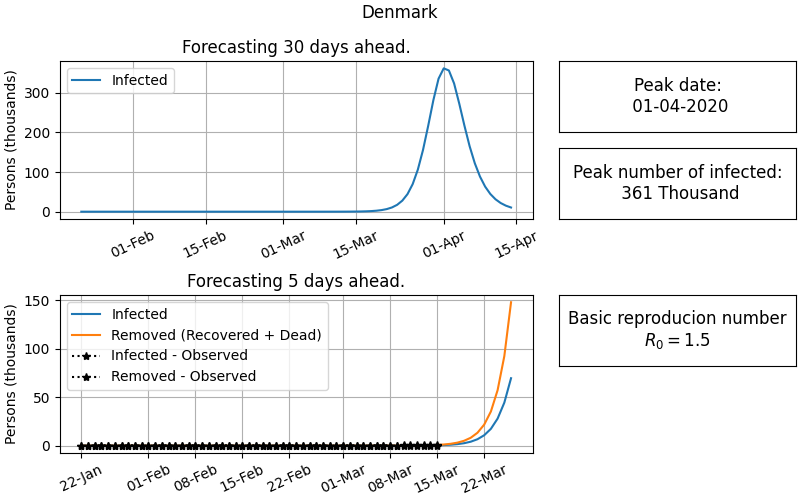
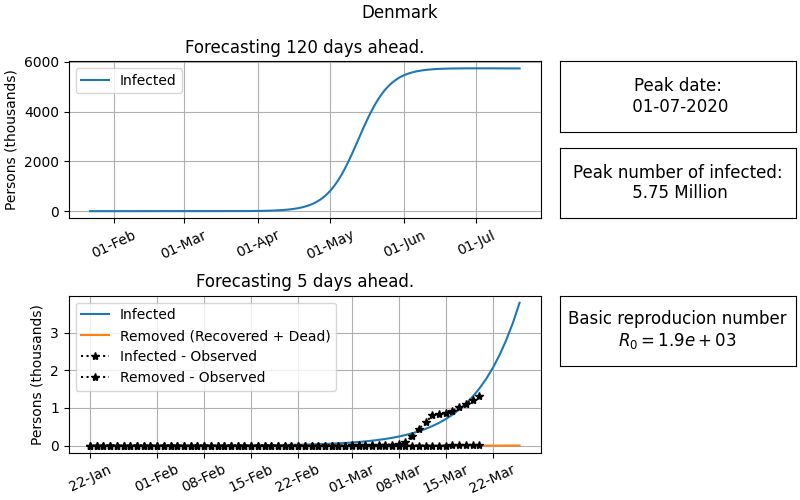
New forecasts.

diff --git a/forecast/plot_forecast.py b/forecast/plot_forecast.py
@@ -8,10 +8,8 @@ from forecast import ForecastInfo, Params
 
 SCALING_FACTOR = 1000
 
-def plot_forecast(df_forecast: DataFrame, forecast_info: ForecastInfo) -> plt.Figure:
-    days_short_term = 5
-    days_long_term = 30
 
+def plot_forecast(df_forecast: DataFrame, forecast_info: ForecastInfo, days_short_term=5, days_long_term=30) -> plt.Figure:
     fig = plt.figure(figsize=(8, 5), constrained_layout=True)
     gs = fig.add_gridspec(4, 3)
     long_term_plot = fig.add_subplot(gs[0:2, 0:2])
@@ -88,7 +86,7 @@ def calc_plot_stats(df_forecast: DataFrame, params: Params) -> dict:
     peak_infected_index = df_forecast.infected_forecast.idxmax()
     return {
         'r0': params.beta / params.gamma,
-        'peak_infected': df_forecast.infected_forecast[peak_infected_index]*SCALING_FACTOR,
+        'peak_infected': df_forecast.infected_forecast[peak_infected_index] * SCALING_FACTOR,
         'peak_date': df_forecast.dates[peak_infected_index]
     }
 
@@ -96,12 +94,12 @@ def calc_plot_stats(df_forecast: DataFrame, params: Params) -> dict:
 def format_counts(count):
     if count < 1e5:
         return f'{count:.0f}'
-    elif count <1e6:
-        return f'{count/1e3:.0f} Thousand'
-    elif count <1e9:
-        return f'{count/1e6:.2f} Million'
+    elif count < 1e6:
+        return f'{count / 1e3:.0f} Thousand'
+    elif count < 1e9:
+        return f'{count / 1e6:.2f} Million'
     else:
-        return f'{count/1e9:.2f} Billion'
+        return f'{count / 1e9:.2f} Billion'
 
 
 def save_plot(fig: plt.Figure, filename: str) -> None:

diff --git a/forecast/forecast_country.py b/forecast/forecast_country.py
@@ -18,7 +18,8 @@ def forecast_countries(df: pd.DataFrame,
                        n_days_predict: int,
                        start_params_collection: dict = None,
                        countries: Iterable = tuple(),
-                       skip_countries: Iterable = tuple()) -> (pd.DataFrame, ForecastInfoCollection):
+                       skip_countries: Iterable = tuple(),
+                       seed=42) -> (pd.DataFrame, ForecastInfoCollection):
 
     skip_countries = set(skip_countries)
     df_forecasts = []
@@ -36,7 +37,7 @@ def forecast_countries(df: pd.DataFrame,
         else:
             start_params = None
 
-        df_forecast, forecast_info = forecast(df_country, country, extract_forecast_info, n_days_predict, start_params)
+        df_forecast, forecast_info = forecast(df_country, country, extract_forecast_info, n_days_predict, start_params, seed)
         df_forecasts.append(df_forecast)
         forecast_info_col.add(forecast_info)
     return pd.concat(df_forecasts, axis=0, ignore_index=True), forecast_info_col
@@ -124,6 +125,7 @@ def forecast(df, country, extract_forecast_info: callable, n_days_predict: int,
     logger.info(res)
     beta, gamma, I0 = inv_repam(res.x)
     logger.info(f'R0 = {beta / gamma:.2f}')
+    logger.info(f'beta = {beta:.3g}, gamma = {gamma:.3g}, I0 = {I0:.3g}')
 
     S_t, I_t, R_t = eval_sir_model(beta, gamma, I0, S0, R0, N, t_span, t_eval_pred)
 

diff --git a/admin/make_new_forecast.py b/admin/make_new_forecast.py
@@ -9,8 +9,10 @@ OUT_TIME_SERIES_FOLDER = '../data/forecasts/time_series'
 OUT_INFO_FOLDER = '../data/forecasts/info'
 OUT_PLOT_FOLDER = '../forecast_plots'
 DATA_FILE = '../data/pre-processed/cssegi_sand_data/cssegi_agg_data.pickle'
-N_DAYS_PREDICT = 300
+N_DAYS_PREDICT = 400
 COUNTRIES = ['Denmark', 'Spain', 'Iran', 'Italy', 'Sweden']
+SEED = 42
+
 df_all = pd.read_pickle(DATA_FILE)
 
 logging.basicConfig(level=logging.INFO)
@@ -26,7 +28,8 @@ df_forecasts, forecast_info_collection = forecast_countries(
     extract_forecast_info=extract_cssegi_forecast_info,
     n_days_predict=N_DAYS_PREDICT,
     start_params_collection=start_params,
-    countries=COUNTRIES
+    countries=COUNTRIES,
+    seed=SEED
 )
 update_time = datetime.now().strftime('%Y-%m-%d')
 

diff --git a/admin/make_forecast_plots.py b/admin/make_forecast_plots.py
@@ -15,7 +15,7 @@ def plot_forcasts(forecast_date):
         print(f'Plotting {country}')
         df_plot = df_forecasts[df_forecasts.country == country].copy()
         forecast_info = forecast_info_collection.get(country)
-        fig = plot_forecast(df_plot, forecast_info)
+        fig = plot_forecast(df_plot, forecast_info, days_short_term=5, days_long_term=120)
         basefilename = f'{country.lower()}_{forecast_info.model_name}'
         save_plot(fig, op.join(OUT_PLOT_FOLDER, basefilename + '.png'))
         with open(op.join(OUT_PLOT_FOLDER, basefilename + '.ini'), 'w') as ini_file:

diff --git a/preproc/normalize.py b/preproc/normalize.py
@@ -2,7 +2,8 @@ from pandas import DataFrame, Series
 import re
 
 
-def normalize_variable_names(df: DataFrame):
+def normalize_variable_names(df: DataFrame, mapping):
+    df = df.rename(columns=mapping)
     df = df.rename(columns=lambda name: _strip_whitespace(name))
     df = df.rename(columns=lambda name: _replace_whitespace_with_underscore(name))
     df = df.rename(columns=lambda name: _camel_case_to_snake_case(name))
